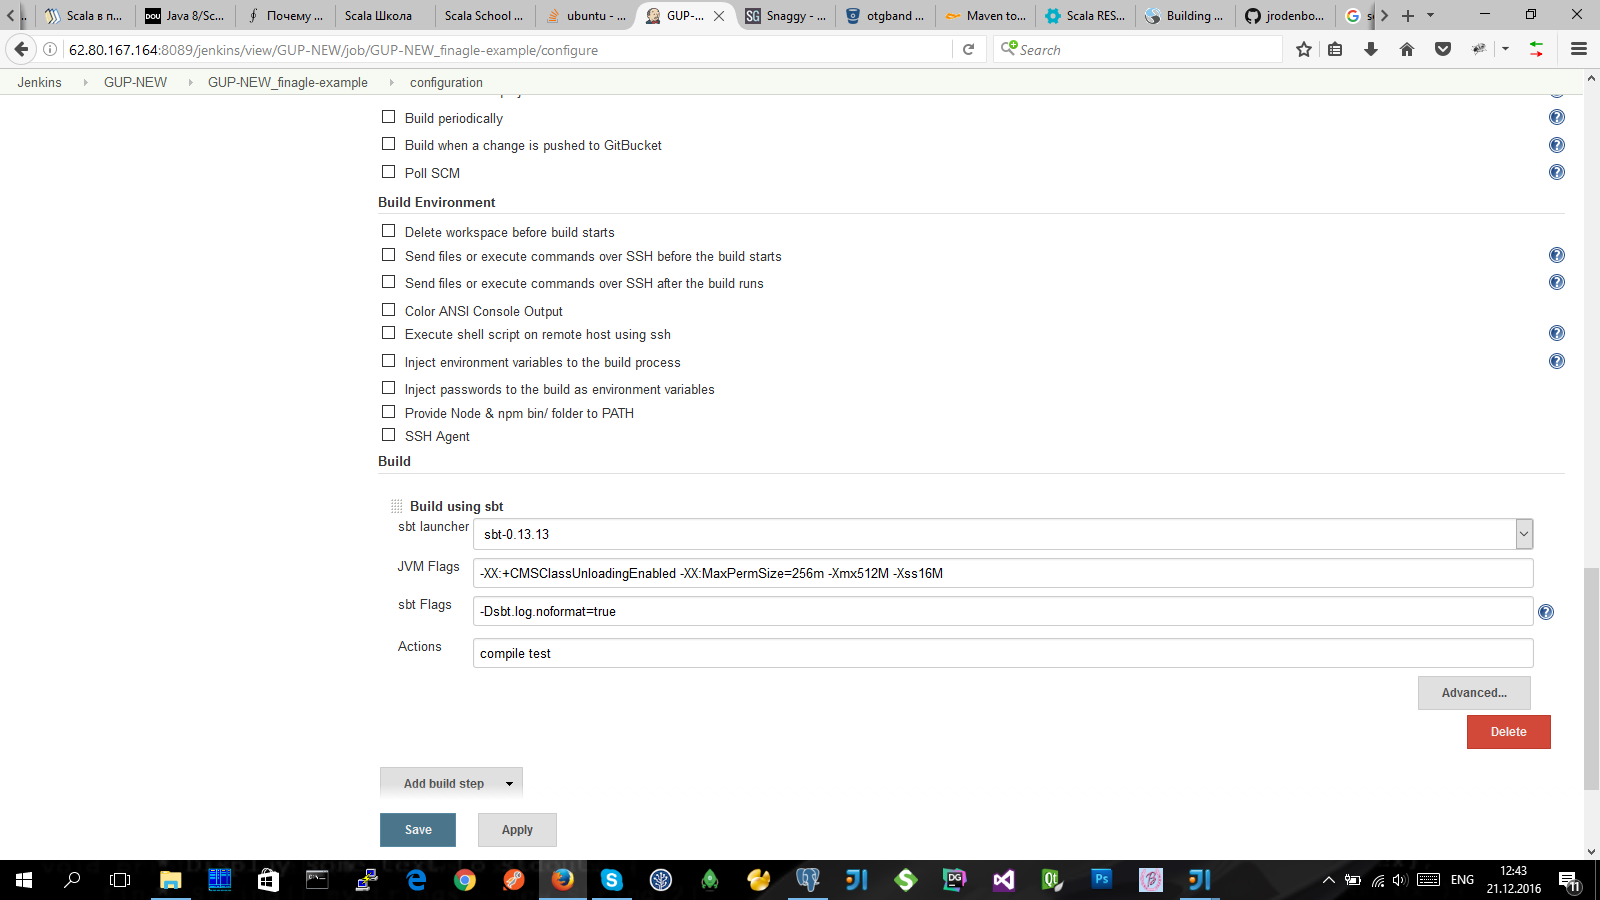
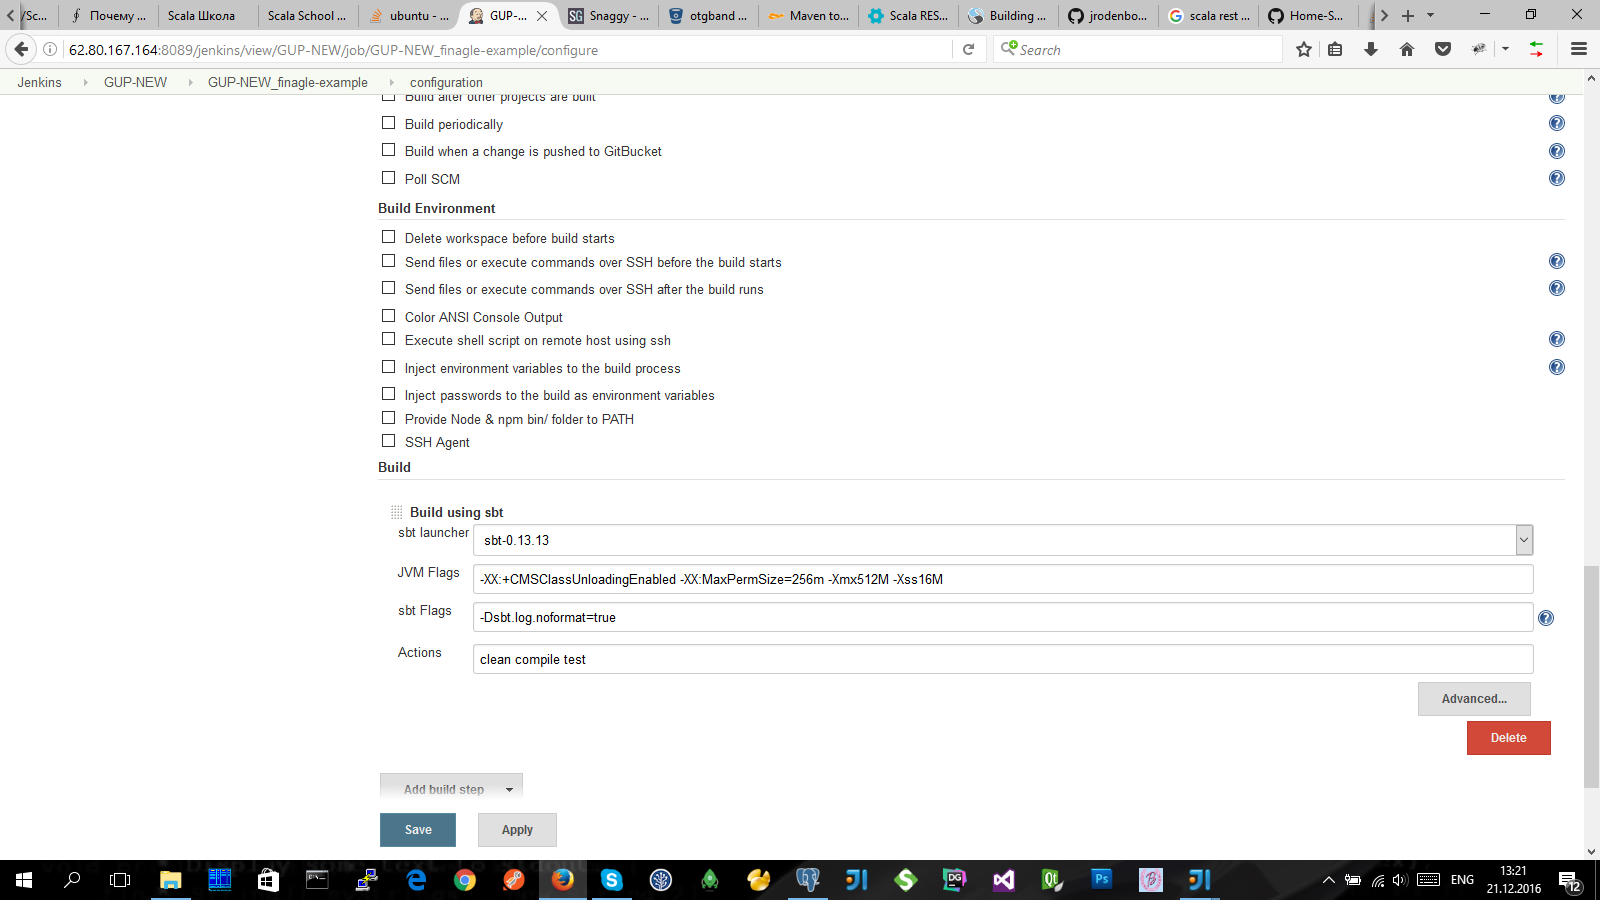
master

diff --git a/README.md b/README.md
@@ -37,6 +37,6 @@
      - sbt launcher	**sbt-0.13.13**
      - JVM Flags **-XX:+CMSClassUnloadingEnabled -XX:MaxPermSize=256m -Xmx512M -Xss16M**
      - sbt Flags **-Dsbt.log.noformat=true**
-     - Actions **compile test**
+     - Actions **clean compile test**
 
 ![4](4.png)
